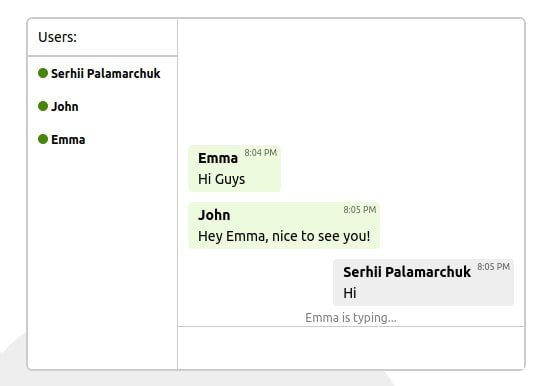
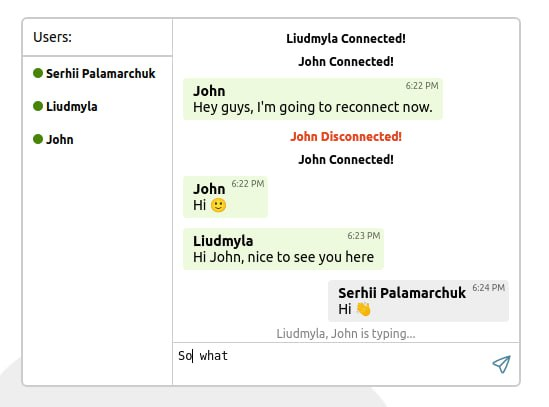
readme, msg event, links

Changed region(s): [[0.031, 0.0311, 0.9599, 0.9637]]

diff --git a/socket/client/src/app/app.component.ts b/socket/client/src/app/app.component.ts
@@ -4,6 +4,7 @@ import { io } from 'socket.io-client';
 import type { ElementRef, AfterViewInit } from '@angular/core';
 import { MessageDto } from './models/messageDto';
 import type { UsersList } from './models/usersList';
+import { urlFilter } from './utils/url-filter';
 
 @Component({
   selector: 'body[root]',
@@ -58,14 +59,26 @@ import type { UsersList } from './models/usersList';
                 <div
                   *ngFor="let item of messages"
                   [attr.self]="item.id === socket?.id ? true : null"
+                  [attr.connection]="item.event === 'connection' ? true : null"
+                  [attr.disconnection]="item.event === 'disconnection' ? true : null"
                   class="message">
-                  <div class="message-header">
-                    <span class="username">{{item.username}}</span>
+                  <div *ngIf="item.event !== 'connection' && item.event !== 'disconnection'">
+                    <div class="message-header">
+                      <span class="username">{{item.username}}</span>
 
-                    <span class="time">{{item.time}}</span>
+                      <span class="time">{{item.time}}</span>
+                    </div>
+
+                    <span [innerHTML]="item.message"></span>
                   </div>
 
-                  {{ item.message }}
+                  <div *ngIf="item.event === 'connection' && item.id !== socket?.id">
+                    <span class="username">{{item.username}} connected!</span>
+                  </div>
+
+                  <div *ngIf="item.event === 'disconnection'">
+                    <span class="username">{{item.username}} disconnected!</span>
+                  </div>
                 </div>
               </div>
             </div>
@@ -146,8 +159,7 @@ export class AppComponent implements AfterViewInit {
       return;
     }
 
-    //this.socket = io('http://localhost:5000');
-    this.socket = io('http://2515588.socketio.web.hosting-test.net/');
+    this.socket = io('http://localhost:5000');
 
     this.socket.on('connect', () => {
       this.connected = true;
@@ -155,14 +167,15 @@ export class AppComponent implements AfterViewInit {
       this.userID = this.socket?.id;
 
       this.socket?.emit('newUser', { username: this.username, id: this.socket.id });
+      this.socket?.emit('message', new MessageDto(this.socket?.id || '', this.username, '', 'connection'));
     });
 
     this.socket.on('messageResponse', data => {
-      this.messages.push(data);
-
-      if (data.id !== this.userID) {
-        this.audioPlayerRef.nativeElement.play();
+      if (data.id !== this.userID && Boolean(this.messages.length)) {
+        this.audioPlayerRef?.nativeElement?.play();
       }
+
+      this.messages = data;
 
       setTimeout(() => {
         this.scrollBottomTextarea();
@@ -192,7 +205,7 @@ export class AppComponent implements AfterViewInit {
       return;
     }
 
-    const data = new MessageDto(this.socket?.id || '', this.username, this.message.trim());
+    const data = new MessageDto(this.socket?.id || '', this.username, urlFilter(this.message.trim()));
     this.message = '';
 
     this.socket?.emit('message', data);

diff --git a/socket/server/server.js b/socket/server/server.js
@@ -1,44 +1,56 @@
-const express = require("express");
+const express = require('express');
 const app = express();
-const cors = require("cors");
+const cors = require('cors');
 const http = require('http').Server(app);
 const socketIO = require('socket.io')(http, {
   cors: {
-    origin: "*"
+    origin: '*'
   }
 });
 
 app.use(cors());
 let typingUsers = [];
 let users = [];
+let messages = [];
 
 socketIO.on('connection', (socket) => {
-  socket.on("message", data => {
-    socketIO.emit("messageResponse", data)
+  socket.on('message', data => {
+
+    messages.push(data)
+    socketIO.emit('messageResponse', messages)
   });
 
-  socket.on("typing", data => {
+  socket.on('typing', data => {
     typingUsers.push(data)
-    socket.broadcast.emit("typingResponse", users)
+    socket.broadcast.emit('typingResponse', users)
   })
 
-  socket.on("stopTyping", data => {
+  socket.on('stopTyping', data => {
     typingUsers = typingUsers.filter(user => user.id !== data.id)
-    socket.broadcast.emit("typingResponse", typingUsers)
+    socket.broadcast.emit('typingResponse', typingUsers)
   })
 
-  socket.on("newUser", data => {
+  socket.on('newUser', data => {
     users.push(data)
-    socketIO.emit("newUserResponse", users)
+    socketIO.emit('newUserResponse', users)
   })
 
   socket.on('disconnect', () => {
+    const disconnectedMessage = {
+      id: '',
+      username: users.filter(user => user.id === socket.id)[0].username,
+      message: '',
+      event: 'disconnection',
+    };
+    messages.push(disconnectedMessage);
+    socketIO.emit('messageResponse', messages)
+
     users = users.filter(user => user.id !== socket.id)
-    socketIO.emit("newUserResponse", users)
+    socketIO.emit('newUserResponse', users)
     socket.disconnect()
   });
 });
 
-http.listen(5000, () => {
+http.listen(5000 || process.env.PORT, () => {
   console.log('Server listening on 5000');
 });

diff --git a/socket/server/websocket.js b/socket/server/websocket.js
@@ -2,7 +2,7 @@ const ws = require('ws');
 
 const server = new ws.Server({port: 5000}, () => console.log(`Server started on 5000`))
 
-//let users = [];
+let users = [];
 
 this.server = server;
 this.server.on('connection', function connection(ws) {
@@ -18,8 +18,8 @@ this.server.on('connection', function connection(ws) {
           client.send(JSON.stringify(data));
           break;
         case 'connection':
-          //users.push({username: data.username, id: data.id})
-          //Object.assign(data, {users: users});
+          users.push({username: data.username, id: data.id})
+          Object.assign(data, {users: users});
 
           client.send(JSON.stringify(data));
           break;
@@ -31,25 +31,16 @@ this.server.on('connection', function connection(ws) {
     console.log('Client has disconnected!')
   });
 
-  //ws.on('disconnect', () => console.log('Client has disconnected!'));
+  ws.on('disconnect', () => console.log('Client has disconnected!'));
 })
 
-/*
 setInterval(()=>{
-  const test = server.clients.length;
   console.log(`Setting the interval ${server.clients.length}`);
   users = [];
   server.clients.forEach((client) => {
     users.push(client.username)
     client.send(JSON.stringify({length: users}));
-  });
-}, 5000);
-*/
 
-
-setInterval(()=>{
-  console.log(`Setting the interval ${server.clients.length}`);
-  server.clients.forEach(function each(ws) {
     if (ws.isAlive === false){
       //Logger.log("verbose", `The web socket died`);
       return ws.terminate();
@@ -57,4 +48,4 @@ setInterval(()=>{
     ws.isAlive = false;
     ws.ping(()=>{});
   });
-}, 3000);
+}, 5000);

diff --git a/socket/client/src/app/app.component.scss b/socket/client/src/app/app.component.scss
@@ -33,7 +33,6 @@
   flex: 1;
   margin-bottom: -1.5rem;
   max-height: 65vh;
-  max-height: 65svh;
   overflow: auto;
   padding: 0 0 1.5rem;
 }
@@ -49,7 +48,6 @@
   flex: 1 100%;
   flex-direction: column;
   min-height: 65vh;
-  min-height: 65svh;
   overflow: hidden;
 }
 
@@ -64,11 +62,27 @@
   padding: .5rem 1rem;
   text-align: left;
   white-space: pre-line;
-  word-break: break-all;
+  word-break: break-word;
 
   &[self] {
     background: var(--message-self);
-    margin: 0.5rem 0.5rem 0.5rem auto;
+    margin: .5rem .5rem .5rem auto;
+
+    &[connection] {
+      display: none;
+    }
+  }
+
+  &[connection],
+  &[disconnection] {
+    background: none;
+    margin: .5rem auto;
+    font-size: 1.2rem;
+    padding: 0;
+  }
+
+  &[disconnection] {
+    color: red;
   }
 }
 .message-list {

diff --git a/socket/client/src/app/models/messageDto.ts b/socket/client/src/app/models/messageDto.ts
@@ -7,8 +7,11 @@ export class MessageDto {
 
   username: string;
 
-  constructor(id: string, username: string, message?: string | null) {
+  event: string | null;
+
+  constructor(id: string, username: string, message?: string | null, event?: string | null) {
     this.id = id;
+    this.event = event || null;
     this.message = message || null;
     this.time = new Date().toLocaleTimeString('en-US', { hour: 'numeric', minute: '2-digit', hour12: true });
     this.username = username;

diff --git a/socket/client/src/app/utils/url-filter.ts b/socket/client/src/app/utils/url-filter.ts
@@ -1,0 +1,5 @@
+export function urlFilter(string: string) {
+  const urlReg = /(https?:\/\/[^\s]+)/g;
+
+  return string.replace(urlReg, url => `<a href="${url}" target="_blank">${url}</a>`);
+}

diff --git a/README.md b/README.md
@@ -2,8 +2,8 @@
 
 My hands-on and demo works related to **Node.js**, **Vue**, **React**, **Angular**, **JS** , **TS** and other X technologies.
 
-Demo                       | Description             	                                                                                                                                      | Screenshot    
-----------------------------------|----------------------------------------------------------------------------------------------------------------------------------------------------------------|----------------------------------------
-**[Socket](https://github.com/palamarchukser/demos/tree/master/socket)** | Demo Chat with sounds notifications, active users list and typing states using **Socket.IO**, **Angular**, **JavaScript**, **TypeScript**, **HTML**, **SCSS**. | <img src="socket/client/src/assets/photo_2023-02-19_20-09-43.jpg" width="250"/>
-**[Server-Sent Events](https://github.com/palamarchukser/demos/tree/master/server-sent)** | Server-Sent Events demo using **Node.js**, **Express**, **React**, **Typescript**                                                                              | <img src="server-sent/client/public/photo_2.jpg" width="250"/>
-**[HTTP Long Polling](https://github.com/palamarchukser/demos/tree/master/long-pooling)** | Small Long Pooling demo using **Node**, **Express**, **Vue**, **Typescript**.                                                                                              | <img src="long-pooling/client/public/photo_2023-02-19_22-30-05.jpg" width="250"/>
+Demo                       | Description             	                                                                                                                                                                             | Screenshot    
+----------------------------------|-------------------------------------------------------------------------------------------------------------------------------------------------------------------------------------------------------|----------------------------------------
+**[Socket](https://github.com/palamarchukser/demos/tree/master/socket)** | Demo Chat with sounds notifications, links parser, active users list, connected/dissconnected and typing states using **Socket.IO**, **Angular**, **JavaScript**, **TypeScript**, **HTML**, **SCSS**. | <img src="socket/client/src/assets/photo_2023-02-19_20-09-43.jpg" width="250"/>
+**[Server-Sent Events](https://github.com/palamarchukser/demos/tree/master/server-sent)** | Server-Sent Events demo using **Node.js**, **Express**, **React**, **Typescript**                                                                                                                     | <img src="server-sent/client/public/photo_2.jpg" width="250"/>
+**[HTTP Long Polling](https://github.com/palamarchukser/demos/tree/master/long-pooling)** | Small Long Pooling demo using **Node**, **Express**, **Vue**, **Typescript**.                                                                                                                         | <img src="long-pooling/client/public/photo_2023-02-19_22-30-05.jpg" width="250"/>

diff --git a/socket/client/README.md b/socket/client/README.md
@@ -1,13 +1,13 @@
 # Socket.IO demo
 Simple Chat demo using Socket.IO, Angular, JavaScript, TypeScript, HTML, SCSS.
 
-## Client (React, TS):
+## Client (Angular, TS):
 In the client directory, you can run:
 
 ### `npm install`
 ### `npm start`
-Runs the app in the development mode.\
-Open [http://localhost:3006](http://localhost:3006) to view it in the browser.
+Runs the app in the development mode.
+Open [http://localhost:4200](http://localhost:4200) to view it in the browser.
 
 ### `npm run build`
 Builds the app for production to the `build` folder.

diff --git a/socket/README.md b/socket/README.md
@@ -1,12 +1,12 @@
 # Socket.IO demo
 Simple Chat demo with notification, user-list and typing states using Socket.IO, Angular, JavaScript, TypeScript, HTML, SCSS.
 
-## Client (React, TS):
+## Client (Angular, TS):
 In the client directory, you can run:
 
 ### `npm install`
 ### `npm start`
-Runs the app in the development mode.\
+Runs the app in the development mode.
 Open [http://localhost:4200](http://localhost:4200) to view it in the browser.
 
 ### `npm run build`

diff --git a/long-pooling/README.md b/long-pooling/README.md
@@ -6,7 +6,7 @@ In the client directory, you can run:
 
 ### `npm install`
 ### `npm start`
-Runs the app in the development mode.\
+Runs the app in the development mode.
 Open [http://localhost:5173](http://localhost:5173) to view it in the browser.
 
 ### `npm run build`

diff --git a/long-pooling/client/README.md b/long-pooling/client/README.md
@@ -6,7 +6,7 @@ In the client directory, you can run:
 
 ### `npm install`
 ### `npm start`
-Runs the app in the development mode.\
+Runs the app in the development mode.
 Open [http://localhost:5173](http://localhost:5173) to view it in the browser.
 
 ### `npm run build`

diff --git a/server-sent/client/README.md b/server-sent/client/README.md
@@ -6,7 +6,7 @@ In the client directory, you can run:
 
 ### `npm install`
 ### `npm start`
-Runs the app in the development mode.\
+Runs the app in the development mode.
 Open [http://localhost:3006](http://localhost:3006) to view it in the browser.
 
 ### `npm run build`
